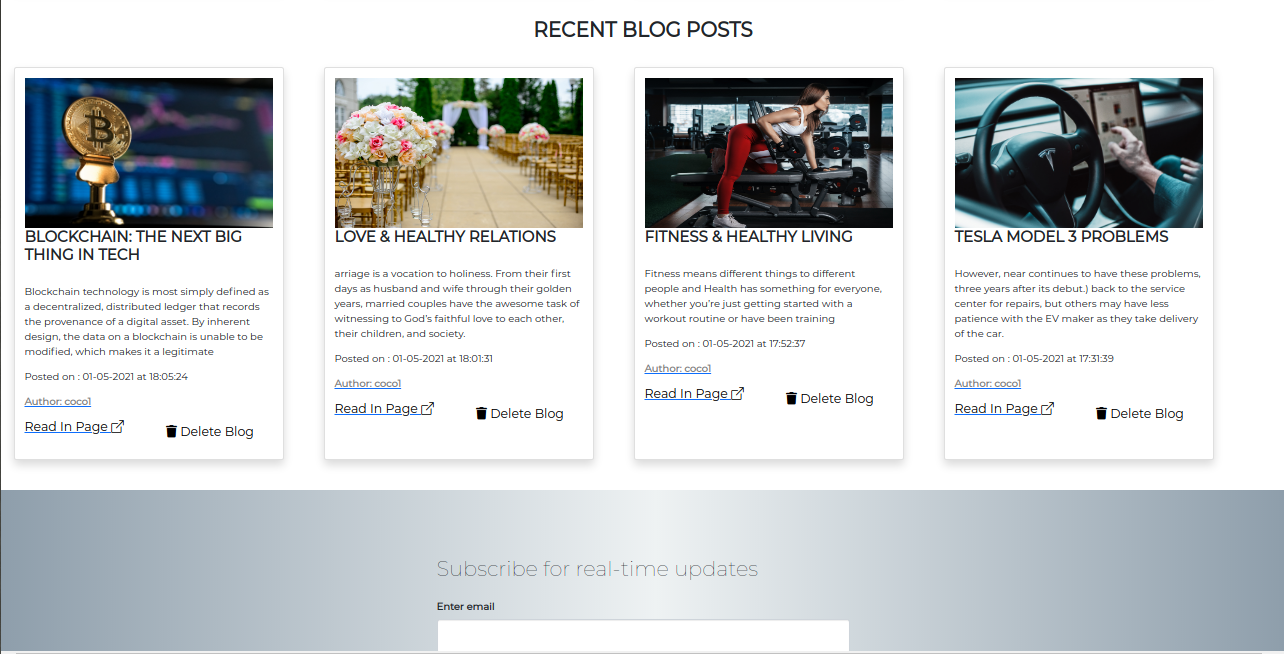
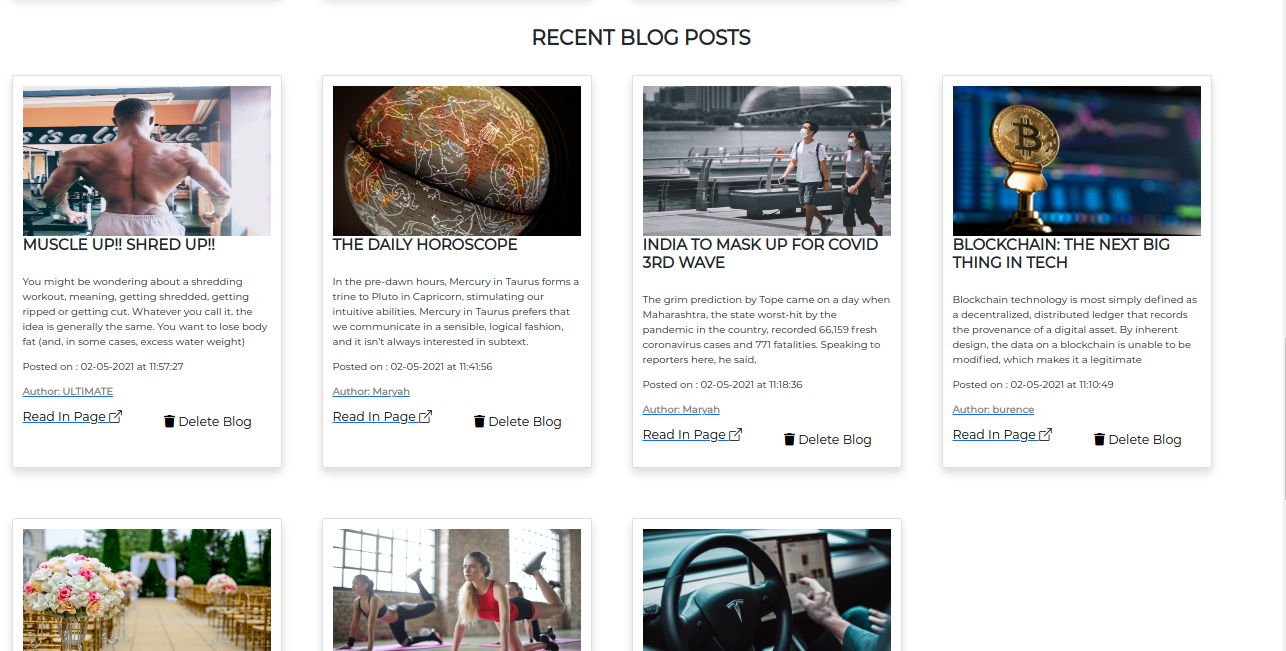
update readme

diff --git a/manage.py b/manage.py
@@ -4,7 +4,7 @@ from app.models import User, Blog, Comment, Subscribe
 from flask_migrate import Migrate,MigrateCommand
 
 #app instance
-app = create_app('production')
+app = create_app('development')
 
 manager = Manager(app)
 migrate= Migrate(app,db)

diff --git a/README.md b/README.md
@@ -14,6 +14,11 @@
      alt="Homepage"
      style="float: center; margin-right: 10px;" />
 
+## All Blogs
+<img src="./app/static/images/allblogs.png"
+     alt="Homepage"
+     style="float: center; margin-right: 10px;" />
+
 ## Blog In Page
 <img src="./app/static/images/blog.png"
      alt="Homepage"
